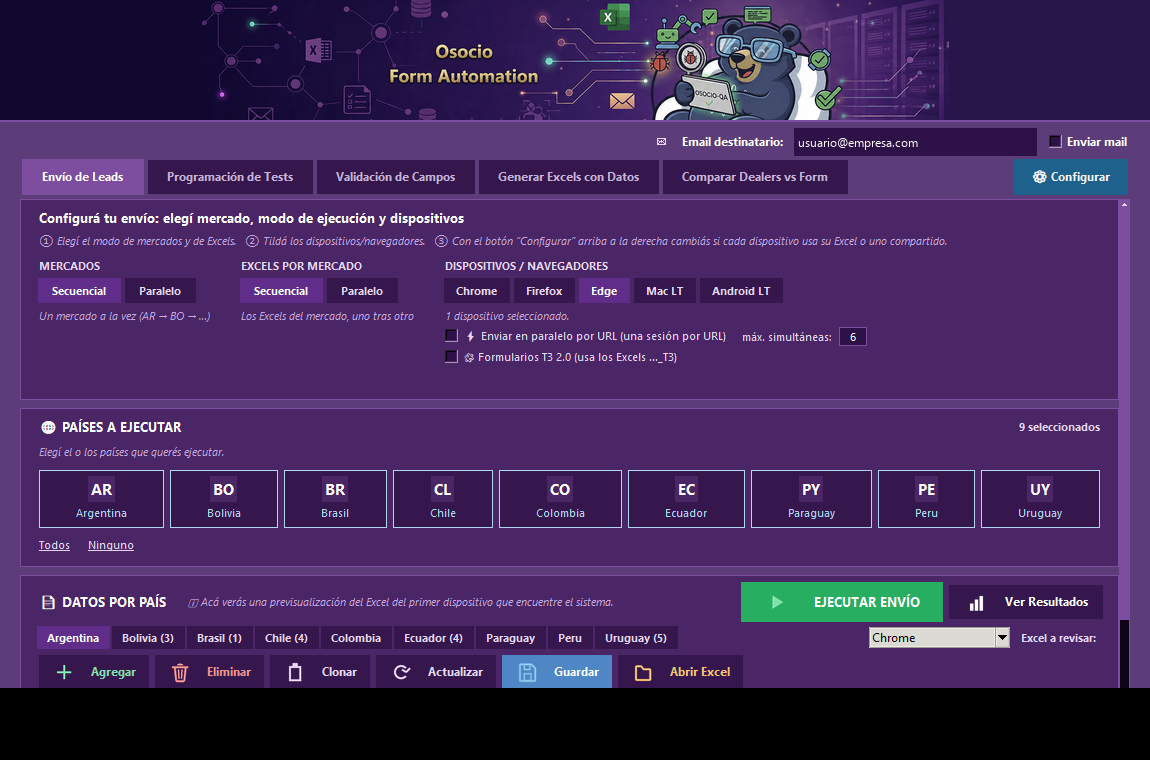
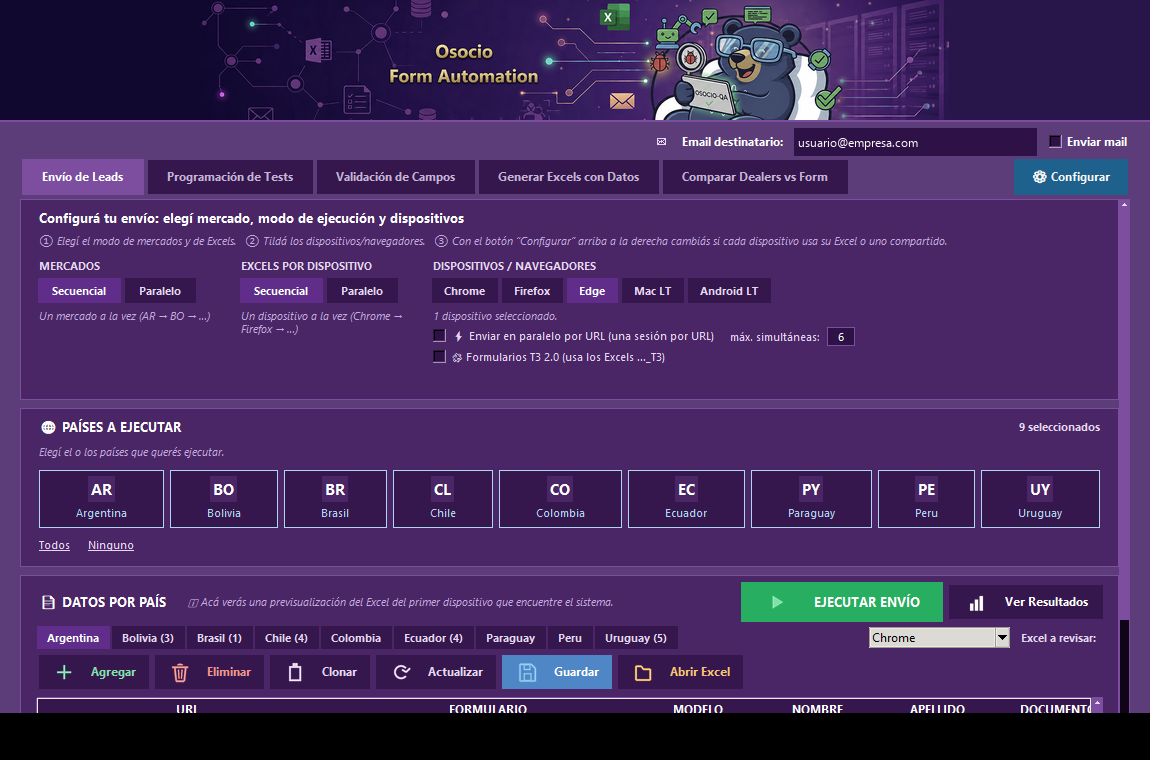
UI: "EXCELS POR MERCADO" -> "EXCELS POR DISPOSITIVO"
El selector controla como corren los Excels de cada dispositivo (Chrome/Firefox/
Edge) dentro de un mercado, no los mercados. Subtitulo acorde y README aclarando
la diferencia entre los dos selectores.

Changed region(s): [[0.213, 0.3329, 0.7609, 0.4842], [0.0, 0.9079, 1.0, 0.9382], [0.2739, 0.3329, 0.3348, 0.3632]]

diff --git a/interface/main_interface.py b/interface/main_interface.py
@@ -1269,8 +1269,8 @@ def iniciar_interfaz():
         sub_texts={"consecutivo": "Un mercado a la vez (AR → BO → …)", "paralelo": "Todos los mercados a la vez"},
         on_change=lambda v: _save_ui_prefs())
     excels_mode = make_pill_group(
-        row_config, "EXCELS POR MERCADO", "", [("Secuencial", "consecutivo"), ("Paralelo", "paralelo")], saved_excels_mode,
-        sub_texts={"consecutivo": "Los Excels del mercado, uno tras otro", "paralelo": "Todos a la vez (solo browsers locales Chrome/FF/Edge)"},
+        row_config, "EXCELS POR DISPOSITIVO", "", [("Secuencial", "consecutivo"), ("Paralelo", "paralelo")], saved_excels_mode,
+        sub_texts={"consecutivo": "Un dispositivo a la vez (Chrome → Firefox → …)", "paralelo": "Todos a la vez (solo browsers locales Chrome/FF/Edge)"},
         on_change=lambda v: [_refresh_excel_par_warning(), _save_ui_prefs()])
 
     # Dispositivos y Navegadores

diff --git a/README.md b/README.md
@@ -53,7 +53,9 @@ Es la pestaña principal: rellena y envía los formularios reales usando los Exc
 
    ![Configuración avanzada](Asset/screenshots/16_configuracion_global.png)
 
-3. **MERCADOS** y **EXCELS POR MERCADO**: Secuencial (uno detrás del otro) o Paralelo (todos a la vez).
+3. **MERCADOS** y **EXCELS POR DISPOSITIVO**: cada uno se pone en **Secuencial** (uno detrás del otro) o **Paralelo** (todos a la vez), y son independientes entre sí.
+   - **MERCADOS** decide cómo se recorren los países: uno por vez (AR → BO → …) o todos juntos.
+   - **EXCELS POR DISPOSITIVO** decide, dentro de cada país, cómo se corren los Excels de los dispositivos que tildaste: Chrome → Firefox → Edge uno detrás del otro, o los tres a la vez. El modo Paralelo acá solo aplica a los navegadores locales (Chrome/Firefox/Edge); LambdaTest corre siempre secuencial.
 4. **DISPOSITIVOS / NAVEGADORES**: selección múltiple — Chrome, Firefox, Edge, Mac LT, Android LT.
    - **⚡ Enviar en paralelo por URL (una sesión por URL)**: en vez de correr todo el Excel de un dispositivo como una sola sesión de a un lead por vez, abre **una ventana de navegador por cada fila** del Excel, todas al mismo tiempo — mucho más rápido para volúmenes grandes. Solo aplica a los navegadores locales (Chrome/Firefox/Edge); LambdaTest siempre corre como una sola sesión, ignora este modo. El campo **"máx. simultáneas"** (por defecto 6, límite real de 1 a 20) controla cuántas ventanas se abren a la vez para no saturar la PC. Este modo **se desactiva solo** cuando el envío lo dispara la Programación de Tests (ahí siempre corre secuencial, aunque hayas dejado la casilla tildada).
    - **🧩 Formularios T3 2.0 (usa los Excels …_T3)**: tildalo si los formularios de este envío son la versión nueva Adobe AEM — la app busca directamente los Excels con sufijo `_T3.xlsx` en vez de los normales. 
